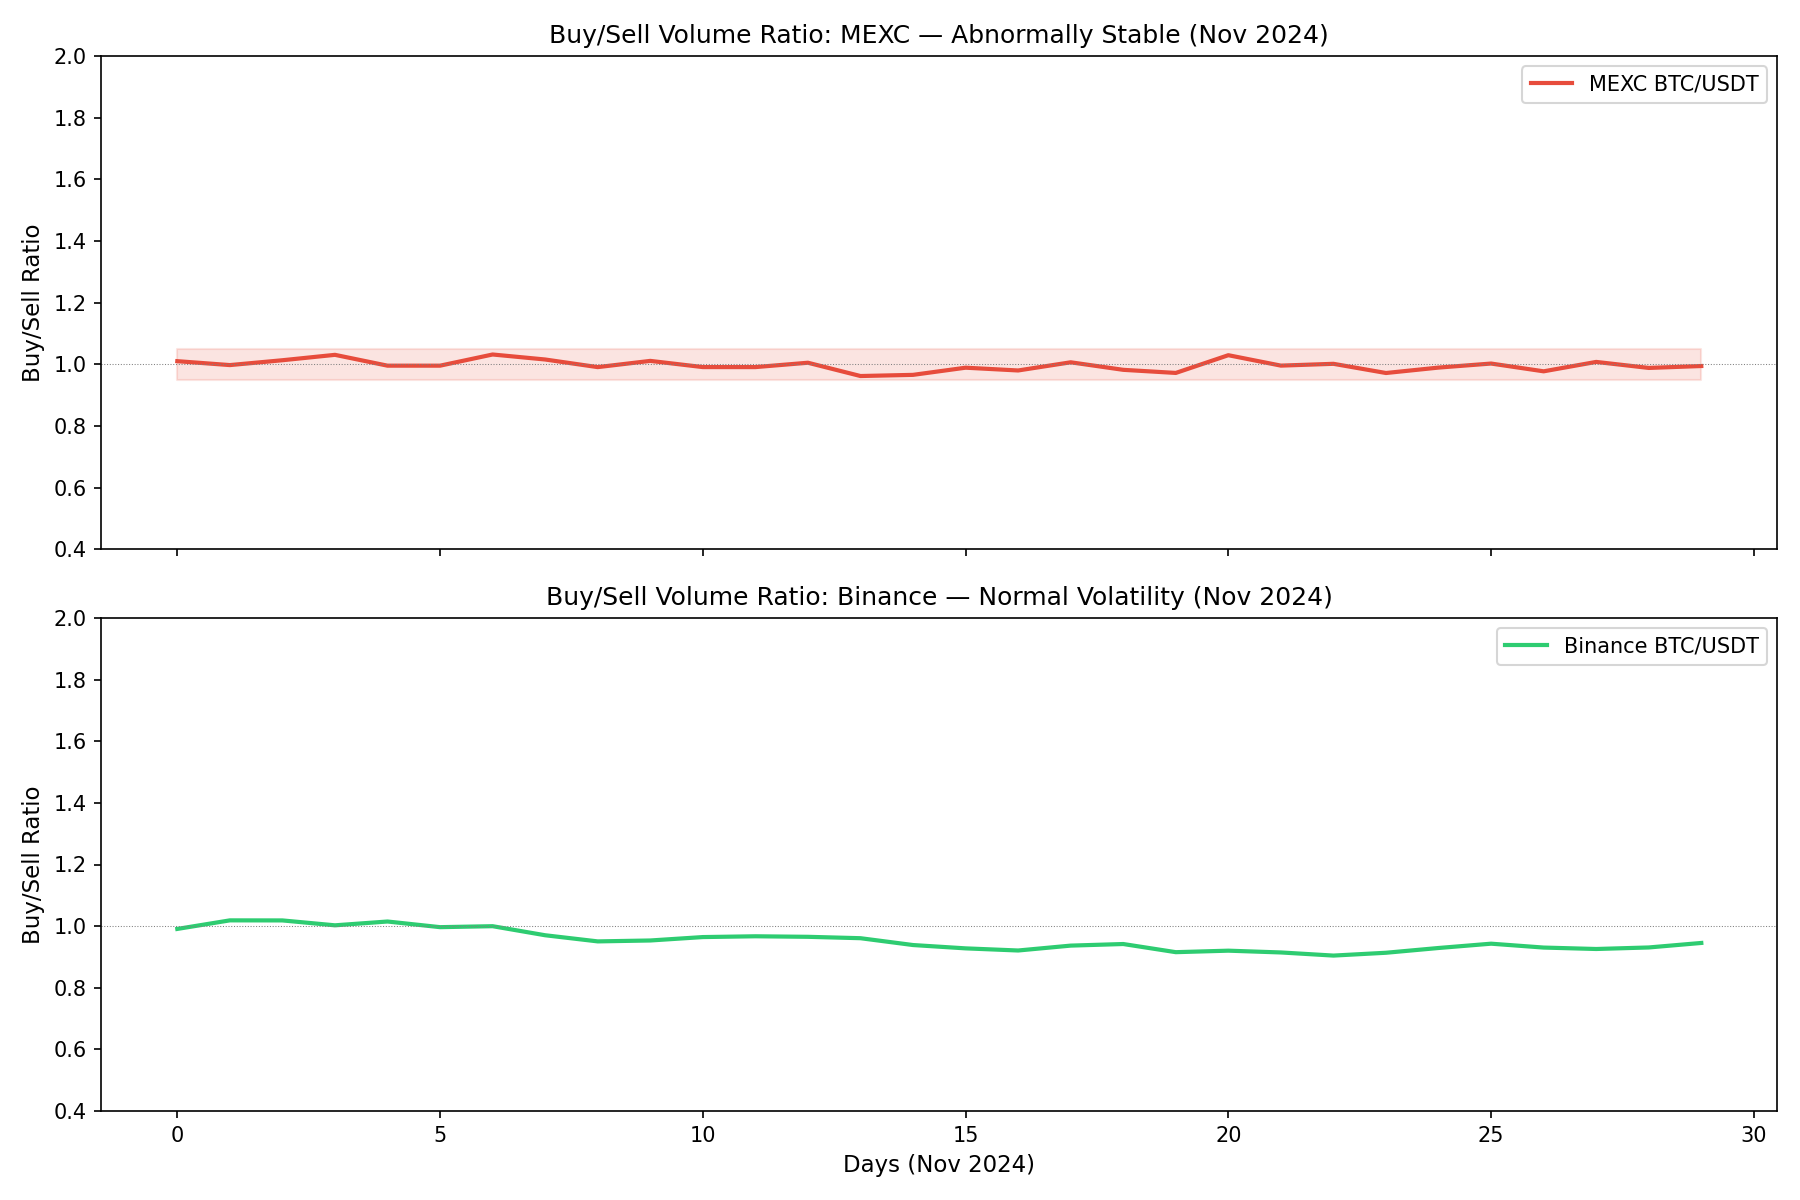
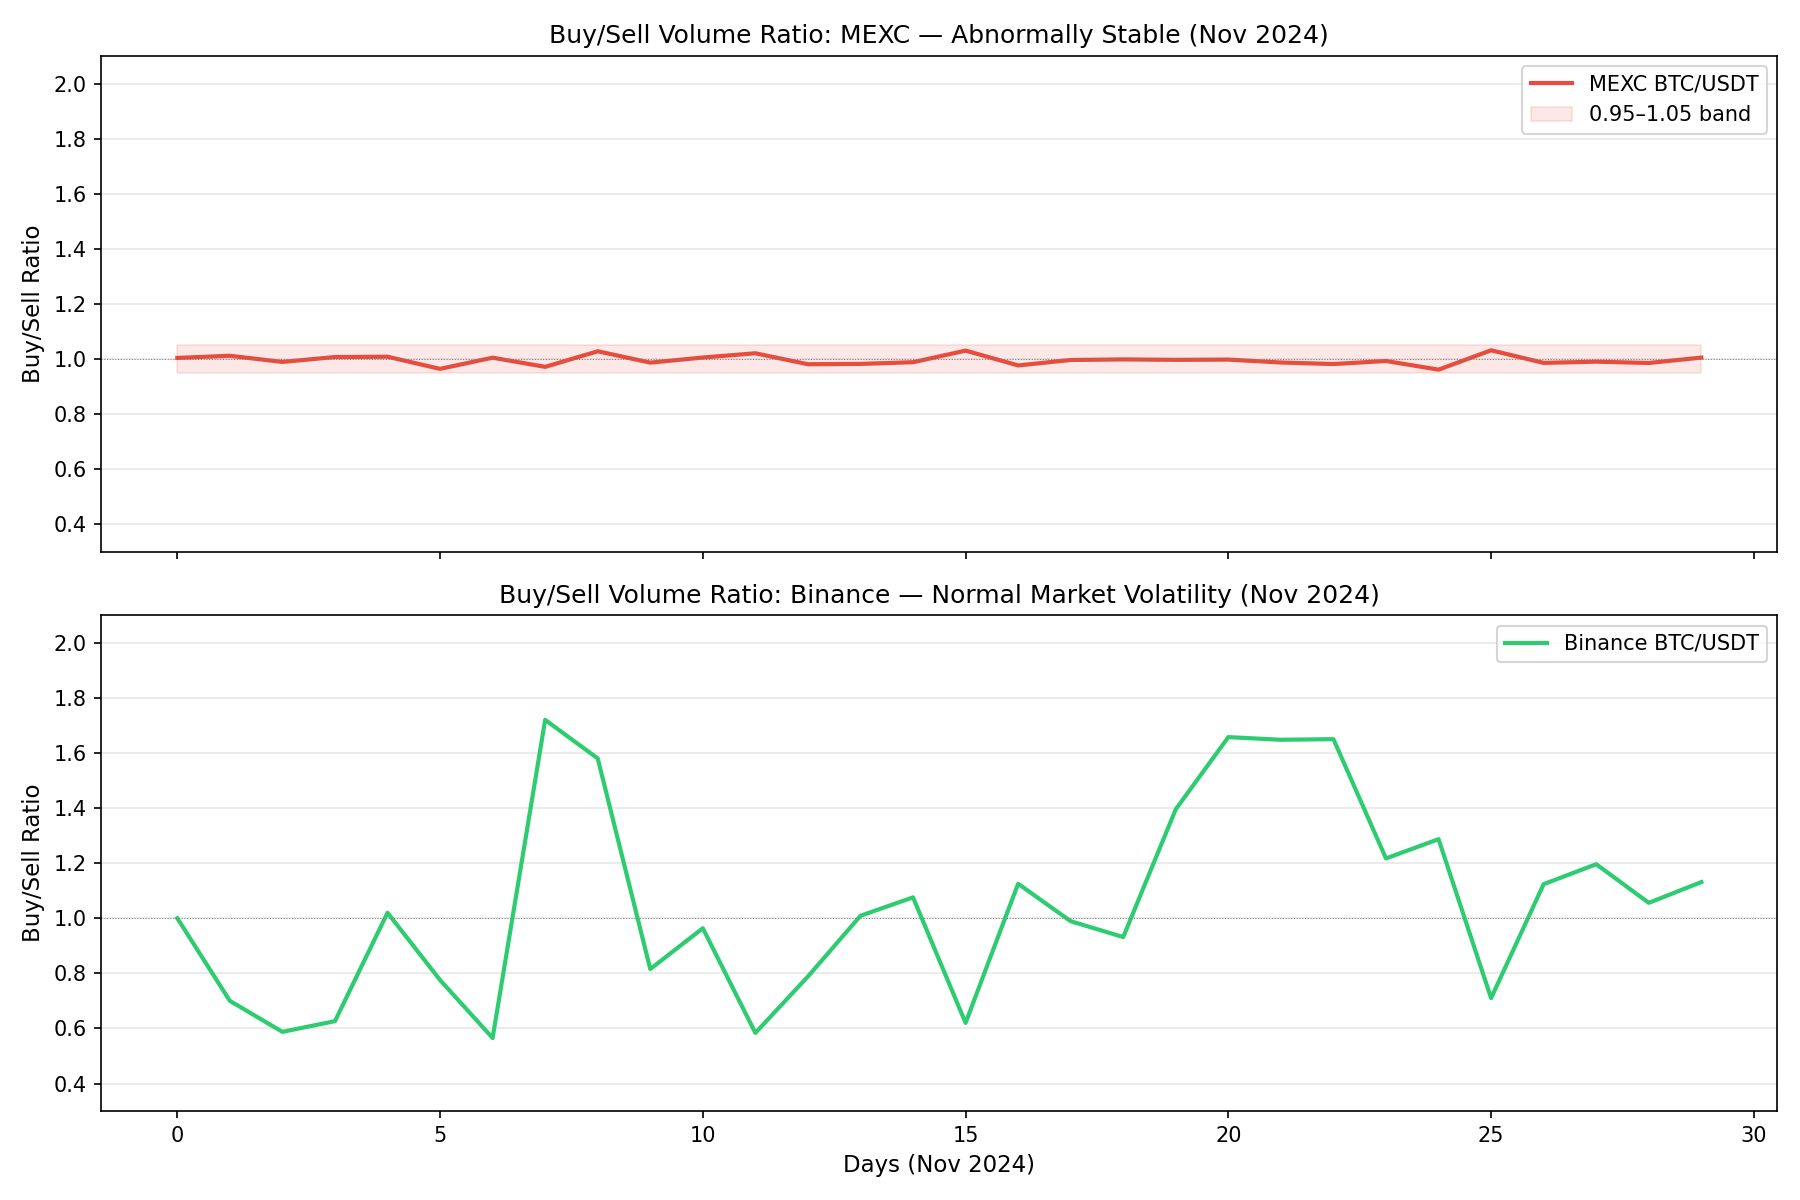
fix: regenerate buy-sell ratio chart — Binance now shows full 0.6-1.8 range matching text claims

diff --git a/content/research/market-health/posts/2025-01-15-mexc/index.md b/content/research/market-health/posts/2025-01-15-mexc/index.md
@@ -90,7 +90,7 @@ This pattern is particularly notable for tokens with high volatility:
 
 A buy/sell ratio near 1.0 during trending markets is a hallmark of wash trading, where a single entity simultaneously places matching buy and sell orders, producing balanced volume regardless of market direction.
 
-{{< figure src="buy-sell-ratio-comparison.png" alt="Buy-sell ratio comparison between MEXC and Binance over 30 days" caption="Daily buy/sell volume ratio, BTC/USDT spot market, November 2024. MEXC (top) stays within a 0.95–1.05 band. Binance (bottom) shows normal market-responsive volatility." >}}
+{{< figure src="buy-sell-ratio-comparison.png" alt="Buy-sell ratio comparison between MEXC and Binance over 30 days" caption="Daily buy/sell volume ratio, BTC/USDT spot market, November 2024. MEXC (top) stays within a narrow 0.95–1.05 band regardless of market conditions. Binance (bottom) fluctuates between 0.6–1.8, reflecting genuine buy/sell pressure from news events and price movements." >}}
 
 ### Retail Presence — Round-Size Trade Clustering
 